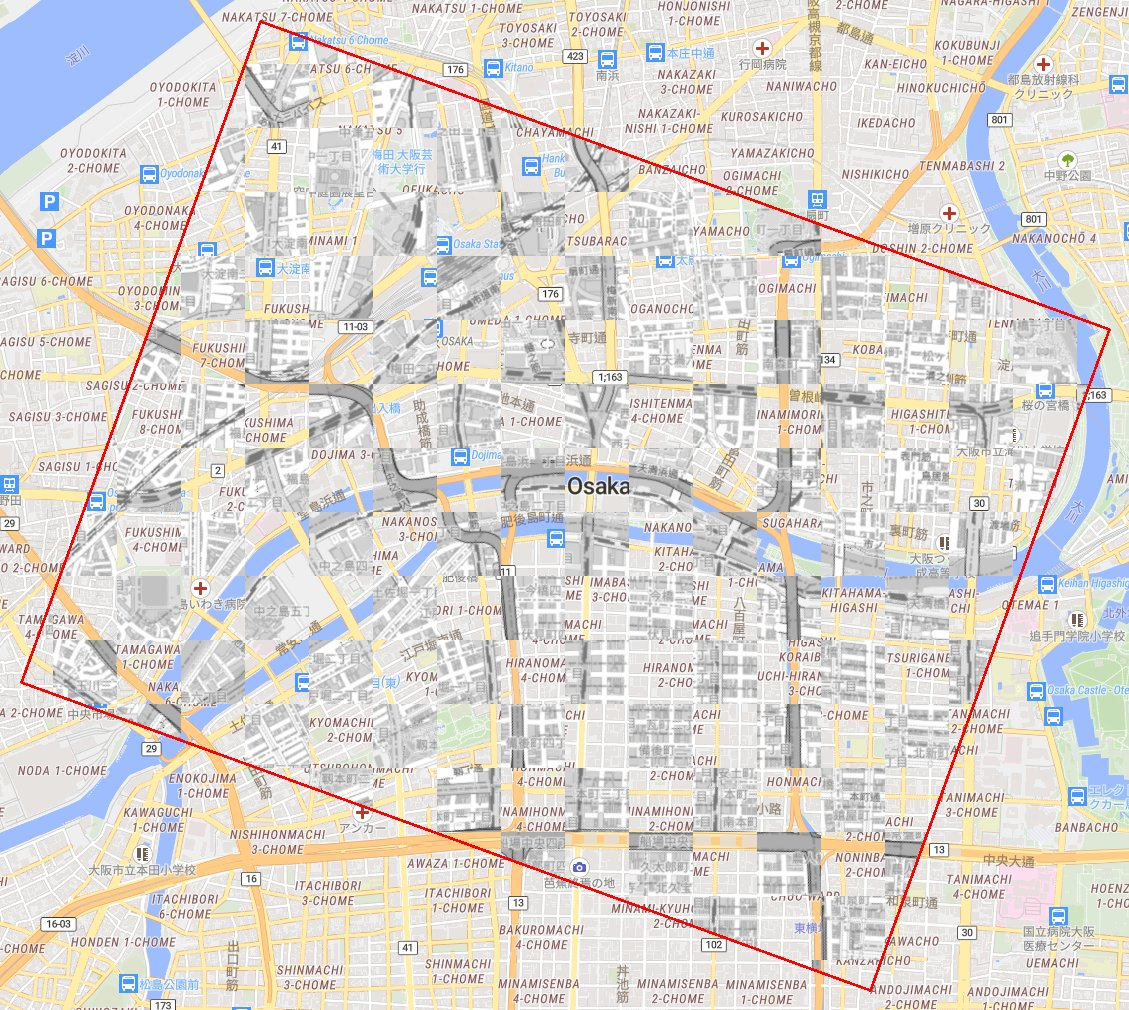
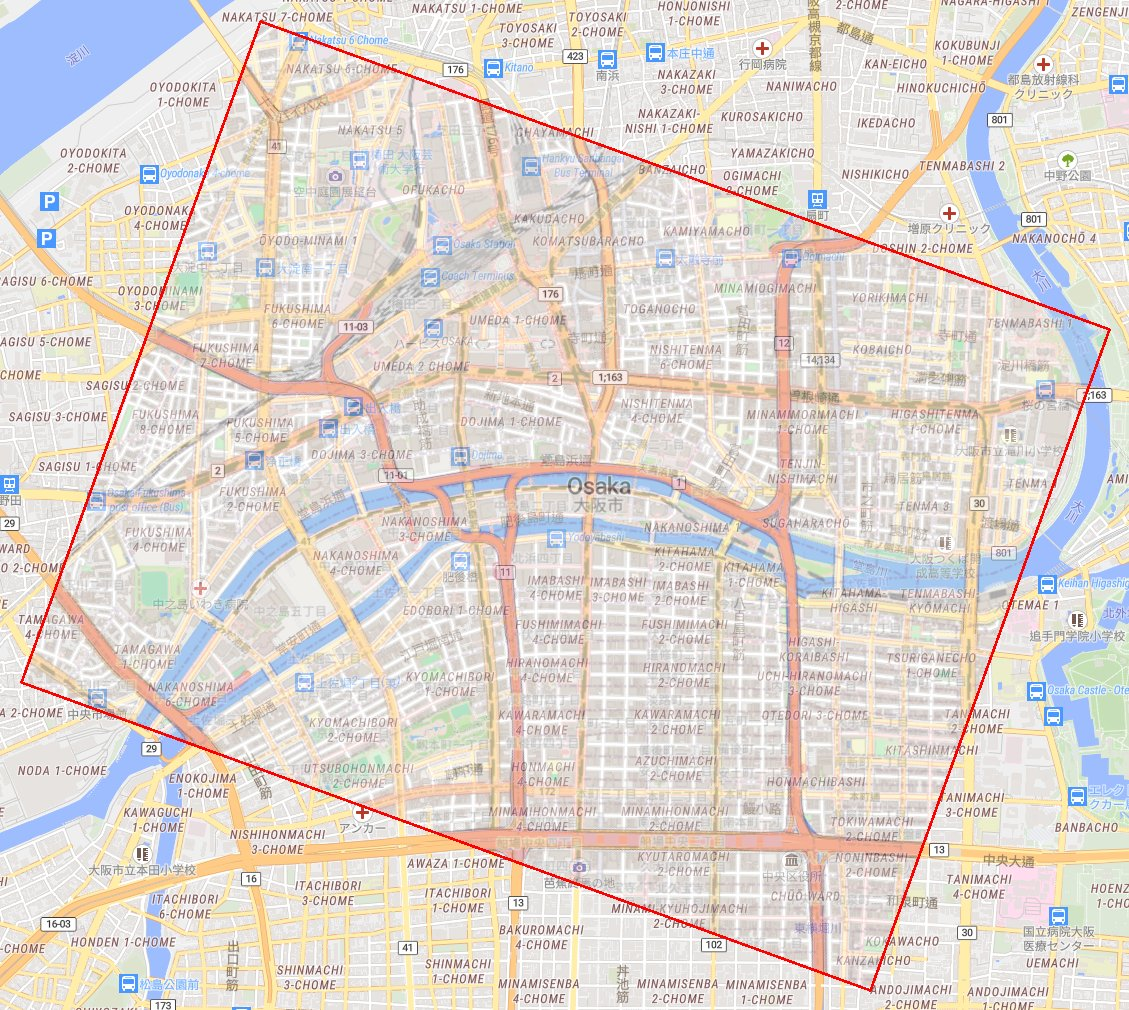
Example figures: overlay the map put back at half opacity instead of a checkerboard
Claude-Session: https://claude.ai/code/session_01Y7Mysqy6k86s5wo5Qk5Znr

Changed region(s): [[0.031, 0.0307, 0.992, 0.9822]]

diff --git a/docs/examples/make_example.py b/docs/examples/make_example.py
@@ -5,7 +5,7 @@
 
 Reads <run>/task/image.png, <run>/run/ref/, <run>/run/refined.json and <run>/run/score.json, and writes
 <name>-input.jpg (the distorted map with its control points) and <name>-result.jpg (the map put back with the
-answer's own transform, in a checkerboard with the reference, its squares in grey, so misalignment shows at the square edges).
+answer's own transform, laid over the reference at half opacity, so misalignment shows as doubled lines).
 """
 
 import json
@@ -56,12 +56,10 @@ def main(run, out):
     back = cv2.remap(img, mapx, mapy, cv2.INTER_LINEAR, borderMode=cv2.BORDER_CONSTANT, borderValue=(255, 255, 255))
     inside = cv2.remap(np.full((H, W), 255, np.uint8), mapx, mapy, cv2.INTER_NEAREST, borderValue=0) > 0
     crop = ref[y0:y1, x0:x1].copy()
-    sq = 64
-    checker = ((ii // sq + jj // sq) % 2 == 0) & inside
-    # the map put back is drawn in grey so its squares stand apart; roads continuing across square edges
-    # show that it lines up with the reference
-    grey = cv2.cvtColor(cv2.cvtColor(back, cv2.COLOR_BGR2GRAY), cv2.COLOR_GRAY2BGR)
-    crop[checker] = grey[checker]
+    # the map put back is laid over the reference at half opacity; where they line up, roads and coasts
+    # show once, and a misfit shows as doubled lines
+    blend = cv2.addWeighted(crop, 0.5, back, 0.5, 0)
+    crop[inside] = blend[inside]
     pts = np.round(fp - [x0, y0]).astype(np.int32)
     cv2.polylines(crop, [pts], True, (0, 0, 255), 2)
     cv2.imwrite(str(out) + "-result.jpg", crop, [cv2.IMWRITE_JPEG_QUALITY, 85])

diff --git a/README.md b/README.md
@@ -29,7 +29,7 @@
 
 ### レベルごとの実例
 
-どの例も、左が道具に渡した歪んだ地図 (赤い丸は見つけた GCP)、右が答えの変換で地上に戻した地図を、参照の地図に市松模様で重ねたもの。升の境目で道路や線がずれずにつながっていれば、位置が合っている。赤い枠は、入力の画像の範囲を地上に写したもの。誤差は、正解の変換と比べた値。
+どの例も、左が道具に渡した歪んだ地図 (赤い丸は見つけた GCP)、右が答えの変換で地上に戻した地図を、参照の地図に半透明で重ねたもの。位置が合っていれば道路や線は 1 本に重なり、ずれていれば二重に見える。描き方が違う例では、2 つの描き方の線が同じ所に重なっているのが見える。赤い枠は、入力の画像の範囲を地上に写したもの。誤差は、正解の変換と比べた値。
 
 レベル 2a: 白黒にした地図を、色付きの参照に合わせる (大阪、GCP 163 点、誤差は最大 0.94 m)
 
@@ -67,11 +67,11 @@
 
 ### 東京の都心 (射影の歪み)
 
-| 入力: 歪んだ地図と、見つけた GCP (赤い丸) | 結果: 地上に戻した地図 (灰色の升) を、元の地図に市松模様で重ねたもの |
+| 入力: 歪んだ地図と、見つけた GCP (赤い丸) | 結果: 地上に戻した地図を、元の地図に半透明で重ねたもの |
 |---|---|
 | ![東京の入力](docs/examples/tokyo-projective-input.jpg) | ![東京の結果](docs/examples/tokyo-projective-result.jpg) |
 
-GCP 268 点、関門は全て通過。正解との誤差は最大 1.63 m、中央値 0.43 m (画像の範囲は地上で約 5.4 km x 3.2 km)。灰色の升と色の升の境目で道路がずれずにつながっているのが、位置が合っている印。赤い枠は、入力の画像の範囲を地上に写したもの。
+GCP 268 点、関門は全て通過。正解との誤差は最大 1.63 m、中央値 0.43 m (画像の範囲は地上で約 5.4 km x 3.2 km)。同じ描き方なので、位置が合っていると重ねた跡が見えないほど一致する (ずれていれば文字や道路が二重になる)。赤い枠は、入力の画像の範囲を地上に写したもの。
 
 ### 十勝の畑 (地物がまばらで、強いアフィンの歪み)
 
